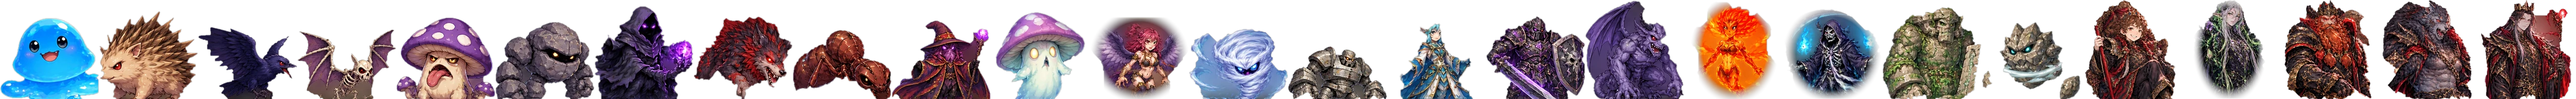
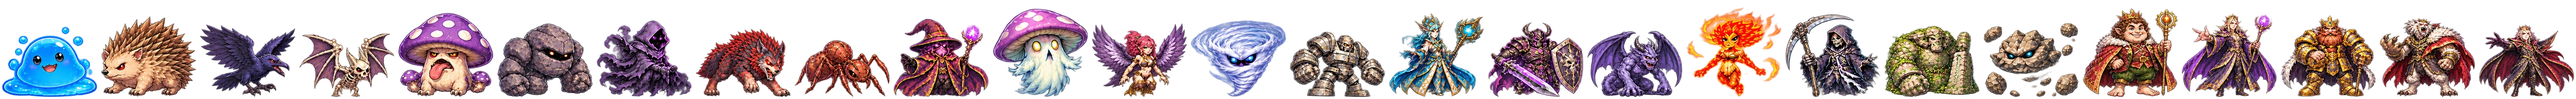
Add files via upload

diff --git a/index.html b/index.html
@@ -355,19 +355,19 @@ const RACES={
 const RACE_KEYS=['human','elf','dwarf','hobbit','beast'];
 const JOBS={
   hero:{name:'勇者',tier:1,cap:BASE_CAP,base:[20,4,6,4,6,4,4,4],g:[5,1.4,1.8,1.2,1.4,1.2,1.1,1],start:['ssword','cloth'],eq:['sword','spear','dagger','cloth','light','heavy'],adv:['hero_l'],
-    skills:{3:'heal',5:'fire',7:'ret',9:'guard',12:'thunder',15:'hiheal',19:'lightning'},desc:'女神に えらばれた 主人公。\nこうげき・かいふく・じゅもんを はばひろく おぼえる。'},
+    skills:{3:'heal',5:'fire',7:'ret',9:'guard',10:'barrier',12:'thunder',15:'hiheal',19:'lightning'},desc:'女神に えらばれた 主人公。\nこうげき・かいふく・じゅもんを はばひろく おぼえる。'},
   fighter:{name:'戦士',tier:1,cap:BASE_CAP,base:[22,0,8,0,6,2,3,1],g:[6,0,2.4,0,1.6,0.6,1,0.3],start:['axe1','leather'],eq:['sword','axe','mace','spear','dagger','cloth','light','heavy'],adv:['kensei','berserk'],
     skills:{1:'nagi',4:'kabuto',10:'majin',16:'zenryoku'},desc:'ぶつりこうげきの エキスパート。\nおのや つるぎで てきを なぎはらう。'},
   knight:{name:'騎士',tier:1,cap:BASE_CAP,base:[20,4,6,2,8,1,2,1],g:[5.5,1,1.8,0.6,2.2,0.4,0.7,0.3],start:['ssword','leather'],eq:['sword','mace','spear','cloth','light','heavy'],adv:['paladin','dragoon'],
-    skills:{1:'cover',3:'bash',6:'heal',9:'phalanx',13:'holyblade'},desc:'なかまを まもる たての やくめ。\nかばう・ファランクスが つかえる。'},
+    skills:{1:'cover',3:'bash',6:'heal',9:'phalanx',11:'barrier',13:'holyblade'},desc:'なかまを まもる たての やくめ。\nかばう・ファランクスが つかえる。'},
   monk:{name:'武闘家',tier:1,cap:BASE_CAP,base:[18,0,7,0,4,7,5,3],g:[5,0,2,0,1.1,1.6,1.3,0.6],start:[null,'cloth'],eq:['claw','cloth','light'],adv:['master','ninja'],unarmed:true,crit:0.1,
     skills:{1:'seiken',5:'kick',9:'kikou',15:'hyaku'},desc:'すでで たたかう 格闘家。\nかいしんの いちげきが でやすい。'},
   hunter:{name:'狩人',tier:1,cap:BASE_CAP,base:[16,2,5,2,4,6,7,4],g:[4.2,0.6,1.6,0.6,1,1.5,1.8,0.9],start:['sbow','cloth'],eq:['bow','dagger','cloth','light'],adv:['sniper','ranger'],
     skills:{1:'aim',4:'sleeparrow',8:'rain',13:'deadshot',18:'double'},desc:'ゆみの つかいて。 うしろの\nれつからでも いりょくが おちない。'},
   mage:{name:'魔法使い',tier:1,cap:BASE_CAP,base:[12,10,1,8,2,3,2,2],g:[2.8,3.2,0.4,2.4,0.6,0.8,0.5,0.5],start:['rod','cloth'],eq:['staff','dagger','cloth','robe'],adv:['archmage','sage'],
-    skills:{1:'fire',3:'sleep',5:'blizz',7:'blaze',10:'thunder',13:'freeze',16:'inferno',19:'meteor'},desc:'こうげきの じゅもんを あやつる。\nうたれよわいので うしろの れつへ。'},
+    skills:{1:'fire',3:'sleep',5:'blizz',7:'blaze',10:'thunder',12:'barrier',13:'freeze',16:'inferno',19:'meteor'},desc:'こうげきの じゅもんを あやつる。\nうたれよわいので うしろの れつへ。'},
   priest:{name:'僧侶',tier:1,cap:BASE_CAP,base:[15,8,3,6,4,2,2,3],g:[3.5,2.6,0.8,1.9,1.1,0.7,0.5,0.7],start:['club','cloth'],eq:['mace','staff','cloth','light','robe'],adv:['bishop','templar'],
-    skills:{1:'heal',3:'guard',7:'hiheal',11:'healall',14:'revive',17:'holy',19:'fullheal'},desc:'かいふくと まもりの じゅもん。\nパーティの いのちづな。'},
+    skills:{1:'heal',3:'guard',7:'hiheal',9:'barrier',11:'healall',14:'revive',17:'holy',19:'fullheal'},desc:'かいふくと まもりの じゅもん。\nパーティの いのちづな。'},
   // ---- advanced (上位職) : base = 転職ボーナス ----
   hero_l:{name:'光の勇者',tier:2,cap:ADV_CAP,from:'hero',base:[30,10,6,4,6,4,4,4],g:[6,1.8,2.2,1.5,1.8,1.4,1.3,1.2],eq:['sword','spear','dagger','katana','cloth','light','heavy'],
     skills:{20:'hikarinotachi',24:'fullheal',28:'saintnova'},desc:'光の 力に めざめた 勇者。\nすべての のうりょくが のびる。'},
@@ -446,7 +446,7 @@ const WORLDS=[null,
     intro:['この 世界は ドワーフの 王が おさめる くに。\n王都ドルムガルドで 王が あなたを まっています。'],
     rumors:['ドワーフの 宝剣が 風の塔で ねむっとる。\nドワーフにしか ふるえん つるぎじゃ。','獣人を なかまにするなど ありえん。\nあやつらは 魔王の けんぞくじゃ。']},
   {n:5,title:'第5の世界',short:'第5',capital:'れんごう都市エルトリア',plain:'エルトリア平原',king:'れんごう王',kingRace:'alliance',fav:null,evil:'human',treasure:null,scale:0.7,expScale:1.0,demonScale:1.0,solo:true,
-    demon:{name:'魔王ヴァルグ',art:'varg',short:'ヴァルグ',race:'human',hp:4420,atk:210,def:94,pal:{a:'#5a2a7a',b:'#3a1a52',c:'#b02a3a',e:'#ffef5a',p:'#c00',w:'#f0f0f0',r:'#c00'}},
+    demon:{name:'魔王ヴァルグ',art:'varg',short:'ヴァルグ',race:'human',hp:8000,atk:210,def:94,pal:{a:'#5a2a7a',b:'#3a1a52',c:'#b02a3a',e:'#ffef5a',p:'#c00',w:'#f0f0f0',r:'#c00'}},
     evilLine:'人間は よくぶかく あらそいを このむ たみ。\nその 人間の なかから 魔王が うまれたのじゃ。',
     kingLines:['ここは 獣人・ホビット・エルフ・ドワーフの\n4つの たみが つくる れんごう国じゃ。','東の海に 人間の 魔王ヴァルグが あらわれ\n世界を やみに しずめようと しておる。','この くにでは 人間は 魔王の 一族として いみきらわれておる。\nだが 女神の使いならば はなしは べつじゃ。'],
     intro:['ここが さいごの 世界。 獣人・ホビット・エルフ・ドワーフの\n4つの たみが つくる れんごう国です。','れんごう都市エルトリアで 王が あなたを まっています。\nどんな ときも わたしは あなたを ささえます。'],
@@ -471,7 +471,7 @@ const SK={
   // ---- 職業：物理技 ----
   nagi:{name:'なぎはらい',mp:3,target:'enemies',kind:'phys',mult:0.75,desc:'てき ぜんたいに こうげき'},
   kabuto:{name:'かぶとわり',mp:4,target:'enemy',kind:'phys',mult:1.8,desc:'つよい いちげき'},
-  majin:{name:'まじんぎり',mp:7,target:'enemy',kind:'phys',mult:3.2,acc:0.65,desc:'あたれば きょうれつ'},
+  majin:{name:'まじんぎり',mp:7,target:'enemy',kind:'phys',mult:2.4,acc:0.65,desc:'あたれば きょうれつ'},
   zenryoku:{name:'ぜんりょくなぎ',mp:10,target:'enemies',kind:'phys',mult:1.4,desc:'てき ぜんたいに つよい こうげき'},
   bash:{name:'シールドバッシュ',mp:3,target:'enemy',kind:'phys',mult:1.2,stun:0.45,desc:'てきを ひるませる'},
   cover:{name:'かばう',mp:2,target:'ally',kind:'cover',desc:'なかま ひとりの ダメージを かわりに うける'},
@@ -487,7 +487,7 @@ const SK={
   deadshot:{name:'いちげきひっさつ',mp:9,target:'enemy',kind:'phys',mult:1.2,kill:0.3,ranged:true,desc:'まれに てきを いっぱつで たおす'},
   double:{name:'れんしゃ',mp:12,target:'enemy',kind:'phys',mult:1.5,hits:[2,2],ranged:true,desc:'つよい 2れんぞく こうげき'},
   // ---- 女神の加護 ----
-  brave:{name:'ブレイブスラッシュ',mp:5,target:'enemy',kind:'phys',mult:2.5,pierce:true,desc:'女神の 力を やどす ひっさつわざ'},
+  brave:{name:'ブレイブスラッシュ',mp:5,target:'enemy',kind:'phys',mult:3.4,pierce:true,crit:0.1,desc:'女神の 力を やどす ひっさつわざ。\nまもりを つらぬき かいしんも でやすい'},
   grace:{name:'女神の息吹',mp:0,target:'allies',kind:'grace',desc:'1せんとう 1かい。 ぜんいん ぜんかい'},
   megaikazuchi:{name:'女神の雷',mp:10,target:'enemies',kind:'magic',pow:[88,106],fx:'zap',desc:'女神の いかずちが てき ぜんたいを うつ'},
   // ---- 種族 ----
@@ -518,6 +518,7 @@ const SK={
   holy:{name:'ホーリー',mp:14,target:'enemy',kind:'magic',pow:[78,92],fx:'holy',desc:'せいなる 光で こうげき'},
   sleep:{name:'スリープ',mp:3,target:'enemies',kind:'sleep',rate:0.6,desc:'てきを ねむらせる'},
   guard:{name:'ガード',mp:3,target:'allies',kind:'defup',desc:'なかまの みのまもりが あがる'},
+  barrier:{name:'マジックバリア',mp:5,target:'allies',kind:'barrier',desc:'てきの じゅもん・ブレスなどの ダメージを\nはんぶんに する（その せんとうの あいだ）'},
   heal:{name:'ヒール',mp:3,target:'ally',kind:'heal',pow:[30,40],field:true,desc:'HPを かいふく'},
   hiheal:{name:'ハイヒール',mp:6,target:'ally',kind:'heal',pow:[85,100],field:true,desc:'HPを おおきく かいふく'},
   healall:{name:'ヒールオール',mp:12,target:'allies',kind:'heal',pow:[55,70],field:true,desc:'なかま ぜんいんを かいふく'},
@@ -527,26 +528,26 @@ const SK={
   // ---- 上位職 ----
   hikarinotachi:{name:'光のたち',mp:12,target:'enemies',kind:'phys',mult:1.6,pierce:true,desc:'てき ぜんたいを 光の つるぎで'},
   saintnova:{name:'セイントノヴァ',mp:20,target:'enemies',kind:'magic',pow:[110,130],fx:'holy',desc:'せいなる ばくはつで てき ぜんたいを'},
-  iai:{name:'いあいぎり',mp:6,target:'enemy',kind:'phys',mult:2.2,crit:0.3,desc:'かいしんが でやすい するどい いちげき'},
+  iai:{name:'いあいぎり',mp:6,target:'enemy',kind:'phys',mult:1.8,crit:0.3,desc:'かいしんが でやすい するどい いちげき'},
   tsubame:{name:'つばめがえし',mp:8,target:'enemy',kind:'phys',mult:1.3,hits:[2,2],desc:'すばやい 2れんげき'},
   mugen:{name:'むげんいっとう',mp:16,target:'enemies',kind:'phys',mult:1.8,pierce:true,desc:'てき ぜんたいを きりさく おうぎ'},
   chinoikari:{name:'ちのいかり',mp:4,target:'self',kind:'selfatk',desc:'じぶんの こうげき力が おおきく あがる'},
-  daisetsudan:{name:'だいせつだん',mp:10,target:'enemy',kind:'phys',mult:3.5,acc:0.8,desc:'あたれば すさまじい いちげき'},
+  daisetsudan:{name:'だいせつだん',mp:10,target:'enemy',kind:'phys',mult:2.6,acc:0.8,desc:'あたれば すさまじい いちげき'},
   bunmawashi:{name:'ぶんまわし',mp:12,target:'enemies',kind:'phys',mult:1.6,desc:'てき ぜんたいを なぎたおす'},
   chikai:{name:'まもりのちかい',mp:6,target:'none',kind:'coverall',desc:'このターン なかまへの ぶつりこうげきを すべて うける'},
   grandcross:{name:'グランドクロス',mp:18,target:'enemies',kind:'magic',pow:[90,110],fx:'holy',desc:'せいなる じゅうじで てき ぜんたいを'},
-  jump:{name:'ジャンプ',mp:6,target:'enemy',kind:'phys',mult:2.6,pierce:true,desc:'たかく とび やりで つらぬく'},
+  jump:{name:'ジャンプ',mp:6,target:'enemy',kind:'phys',mult:2.0,pierce:true,desc:'たかく とび やりで つらぬく'},
   ryunoibuki:{name:'りゅうのいぶき',mp:12,target:'enemies',kind:'magic',pow:[60,75],fx:'fire',desc:'りゅうの ほのおで てき ぜんたいを'},
-  highjump:{name:'ハイジャンプ',mp:14,target:'enemy',kind:'phys',mult:4.0,pierce:true,desc:'さらに たかく とび きょうれつな いちげき'},
+  highjump:{name:'ハイジャンプ',mp:14,target:'enemy',kind:'phys',mult:2.8,pierce:true,desc:'さらに たかく とび きょうれつな いちげき'},
   shinkuuha:{name:'しんくうは',mp:10,target:'enemies',kind:'phys',mult:1.3,desc:'しんくうの は で てき ぜんたいを'},
   meisou:{name:'めいそう',mp:6,target:'self',kind:'selfheal',ratio:0.7,desc:'じぶんの HPを 70% かいふく'},
-  ougi:{name:'ひでんおうぎ',mp:14,target:'enemy',kind:'phys',mult:3.0,crit:0.5,desc:'かいしんが でやすい おうぎ'},
+  ougi:{name:'ひでんおうぎ',mp:14,target:'enemy',kind:'phys',mult:2.2,crit:0.5,desc:'かいしんが でやすい おうぎ'},
   kagenui:{name:'かげぬい',mp:5,target:'enemy',kind:'phys',mult:1.2,stun:0.7,desc:'かげを ぬいとめ てきを うごけなくする'},
   shuriken:{name:'しゅりけん',mp:8,target:'random',kind:'phys',mult:0.9,hits:[3,3],ranged:true,desc:'ランダムに 3かい しゅりけんを なげる'},
   kubihane:{name:'くびはね',mp:12,target:'enemy',kind:'phys',mult:1.5,kill:0.4,desc:'まれに てきを いっぱつで しとめる'},
   tsuranuki:{name:'つらぬきのや',mp:6,target:'enemy',kind:'phys',mult:2.2,pierce:true,ranged:true,desc:'まもりを つらぬく や'},
   hoshifuri:{name:'ほしふりのや',mp:12,target:'enemies',kind:'phys',mult:1.1,ranged:true,desc:'てき ぜんたいに やを ふらせる'},
-  isshi:{name:'いっしひっちゅう',mp:15,target:'enemy',kind:'phys',mult:4.0,ranged:true,sure:true,desc:'かならず あたる いっぱつ'},
+  isshi:{name:'いっしひっちゅう',mp:15,target:'enemy',kind:'phys',mult:3.0,ranged:true,sure:true,desc:'かならず あたる いっぱつ'},
   yakusou:{name:'薬草のちしき',mp:6,target:'allies',kind:'heal',pow:[40,55],field:true,desc:'なかま ぜんいんを かいふく'},
   wana:{name:'しかけわな',mp:6,target:'enemies',kind:'stunall',rate:0.6,desc:'てきを ひるませやすい'},
   monogari:{name:'まものがり',mp:12,target:'enemies',kind:'phys',mult:1.4,ranged:true,desc:'てき ぜんたいを いぬく'},
@@ -556,7 +557,7 @@ const SK={
   inori:{name:'せいなるいのり',mp:8,target:'allies',kind:'rally',desc:'なかまの こうげき力と みのまもりが あがる'},
   resurrection:{name:'リザレクション',mp:30,target:'deadall',kind:'revive',full:true,field:true,desc:'しんだ なかま ぜんいんを ぜんかいで いきかえらせる'},
   grandheal:{name:'グランドヒール',mp:28,target:'allies',kind:'fullheal',field:true,desc:'なかま ぜんいんの HPを ぜんかい'},
-  shinpan:{name:'しんぱんのつち',mp:12,target:'enemy',kind:'phys',mult:3.0,pierce:true,desc:'かみの さばきを くだす いちげき'},
+  shinpan:{name:'しんぱんのつち',mp:12,target:'enemy',kind:'phys',mult:2.2,pierce:true,desc:'かみの さばきを くだす いちげき'},
 };
 const TYPE_NAME={sword:'剣',axe:'斧',mace:'メイス',spear:'槍',katana:'刀',claw:'ツメ',bow:'弓',staff:'杖',dagger:'短剣',cloth:'服',light:'軽鎧',heavy:'重鎧',robe:'ローブ'};
 const WEAPON_TYPES=['sword','axe','mace','spear','katana','claw','bow','staff','dagger'],ARMOR_TYPES=['cloth','light','heavy','robe'];
@@ -714,7 +715,7 @@ Object.entries(DROPS).forEach(([k,d])=>MON[k].drop=d);
 const BAL={mid:{ids:['wolf','ant','wizard','bigshroom','harpy','whirl','golem','sorcerer'],hp:1.6,atk:1.45,def:1.2,exp:1.25},
   late:{ids:['dknight','gargoyle','flame','reaper'],hp:2.0,atk:1.85,def:1.25,exp:1.25},
   stormlord:{ids:['stormlord'],hp:1.9,atk:1.5,def:1,exp:1}};
-Object.values(BAL).forEach(b=>b.ids.forEach(k=>{const m=MON[k];m.hp=Math.round(m.hp*b.hp);m.atk=Math.round(m.atk*b.atk);m.def=Math.round(m.def*b.def);m.exp=Math.round(m.exp*b.exp);m.gold=Math.round(m.gold*b.exp);}));
+Object.values(BAL).forEach(b=>b.ids.forEach(k=>{const m=MON[k];m.spow=1+(b.atk-1)*0.6;m.hp=Math.round(m.hp*b.hp);m.atk=Math.round(m.atk*b.atk);m.def=Math.round(m.def*b.def);m.exp=Math.round(m.exp*b.exp);m.gold=Math.round(m.gold*b.exp);}));
 const ESKILL={
   spore:{msg:'どくのこなを まきちらした！',target:'all',pow:[5,8]},
   spore2:{msg:'もうどくの こなを まきちらした！',target:'all',pow:[11,16]},
@@ -746,8 +747,17 @@ const WR=["##############","#::::###::::^#","#:W::#:::#::^#","#:,:::::#:::^#","#
 const SEA='~'.repeat(30);
 const WORLD_BASE=WL.map((l,i)=>l+(i===12?'==':'~~')+WR[i]).concat([SEA,SEA,
   '~'.repeat(18)+'##pp#pp,p#~~','~'.repeat(18)+'#p#ppp#pp#~~','~'.repeat(18)+'#ppp#pppp#~~','~'.repeat(18)+'##pX####p#~~','~'.repeat(18)+'##########~~',SEA]);
+const WORLD_FLOOR_CH={'.':1,',':1,':':1,'p':1,'=':1};
 // ワールドは 1マスを 2×2に ひろげて 2ばいの 広さにする
-const WORLD_ROWS=WORLD_BASE.flatMap(r=>{const d=r.split('').map(c=>c+c).join('');return [d,d];});
+const WORLD_ROWS0=WORLD_BASE.flatMap(r=>{const d=r.split('').map(c=>c+c).join('');return [d,d];});
+// 町・洞窟・塔・ほこら・魔王城は 2×2の うち 1マスだけを 入口に し、のこりは まわりの 地形で うめる
+const GATE_KEEP={T:[1,0],S:[0,0],C:[0,1],W:[0,1],R:[0,0],X:[0,0]};
+const WORLD_ROWS=(()=>{const g=WORLD_ROWS0.map(r=>r.split(''));const walk=c=>!!WORLD_FLOOR_CH[c];
+  WORLD_BASE.forEach((row,by)=>[...row].forEach((c,bx)=>{const k=GATE_KEEP[c];if(!k)return;
+    const cnt={};[[1,0],[-1,0],[0,1],[0,-1]].forEach(([dx,dy])=>{const n=(WORLD_BASE[by+dy]||'')[bx+dx];if(n&&n!=='~'&&!GATE_KEEP[n])cnt[n]=(cnt[n]||0)+1;});
+    const fill=Object.keys(cnt).sort((a,b)=>cnt[b]-cnt[a]||walk(b)-walk(a))[0]||'.';
+    for(let oy=0;oy<2;oy++)for(let ox=0;ox<2;ox++)if(ox!==k[0]||oy!==k[1])g[by*2+oy][bx*2+ox]=fill;}));
+  return g.map(r=>r.join(''));})();
 const CAVE1=["####################","#<....#.......#....#","#.##..#.####..#.##.#","#.#...#....#..#..#.#","#.#.###.##.#.###.#.#","#...#...#..#.....#.#","###.#.###.####.###.#","#...#...#....#.....#","#.#####.####.#.###.#","#.....#....#.#...#.#","#.###.####.#.###.#.#","#.#X#......#...#.#.#","#.#.########.#.#...#","#.#..........#.###.#","#...########...#..>#","####################"];
 const CAVE2=["####################","#<.......#.........#","#.######.#.#######.#","#.#....#.#.#.....#.#","#.#.##.#...#.###.#.#","#...#..#####.#.#...#","#####.##.....#.###.#","#.....#..###.#...#.#","#.#####.##.#.###.#.#","#.......#..#...#...#","########.#####.#####","#..................#","#.#######E########.#","#.#X....#Y#.....X#.#","#.......####.......#","####################"];
 const TOWER1=["##############","#......#.....#","#.####.#.###.#","#.#X.#...#>..#","#.#..#####.#.#","#.#........#.#","#.######.###.#","#......#.....#","######.#####.#","#X.....#.....#","#.####.#.###.#","#....#...#...#","#.##.##<##.#.#","##############"];
@@ -827,7 +837,7 @@ const TILE_KEYS=['forest','mount','townR','townS','caveEnt','towerEnt','castleGa
 const tileArt=new Image();tileArt.onload=()=>{const c=document.createElement('canvas');c.width=TS;c.height=TS;const x=c.getContext('2d');
   TILE_KEYS.forEach((k,i)=>{x.clearRect(0,0,TS,TS);x.drawImage(tileArt,i*TS,0,TS,TS,0,0,TS,TS);T[k]=new Uint32Array(x.getImageData(0,0,TS,TS).data.buffer.slice(0));});};
 function loadTileArt(){tileArt.src='assets/tiles.png';gateArt.src='assets/gates.png';}
-// 2マスで 1つの 入口に なる たてもの（町・洞窟・塔・ほこら・魔王城）
+// 1マスの 入口に なる たてもの（町・洞窟・塔・ほこら・魔王城）。絵は 128x64 を 1マスに おさめて えがく
 const GATE_KEYS=['T','S','C','W','R','X'],GT={};const gateArt=new Image();
 gateArt.onload=()=>{const c=document.createElement('canvas');c.width=128;c.height=64;const x=c.getContext('2d');
   GATE_KEYS.forEach((k,i)=>{x.clearRect(0,0,128,64);x.drawImage(gateArt,i*128,0,128,64,0,0,128,64);GT[k]=new Uint32Array(x.getImageData(0,0,128,64).data.buffer.slice(0));});};
@@ -903,6 +913,7 @@ function growth(m){const Rc=RACES[m.race],J=JOBS[m.job],Sx=GENDERS[m.sex||'male'
 function learn(m){
   const got=[];const add=(lv,s)=>{if(m.lv>=+lv&&!m.skills.includes(s)){m.skills.push(s);got.push(s);}};
   Object.entries(RACES[m.race].skills).forEach(([l,s])=>add(l,s));Object.entries(JOBS[m.job].skills).forEach(([l,s])=>add(l,s));
+  if(m.baseJob&&JOBS[m.baseJob])Object.entries(JOBS[m.baseJob].skills).forEach(([l,s])=>add(l,s));
   if(isHero(m)&&G)(G.blessings||[]).forEach(b=>{if(BLESSINGS[b].skill)add(1,BLESSINGS[b].skill);});
   return got;
 }
@@ -1102,7 +1113,9 @@ async function goMap(id,x,y,d){sfx('stairs');await fade(1);loadMap(id,x,y,d);awa
 function onArrive(){
   markSeen();updHud();
   const k=G.x+','+G.y;
-  if(map.stairs&&map.stairs[k]){const [m,x,y,d]=map.stairs[k];run(()=>goMap(m,x,y,d));return;}
+  // 階段は ふむと きいてくる（「いいえ」なら その まま とおりぬけられる）
+  if(map.stairs&&map.stairs[k]){const [m,x,y,d]=map.stairs[k];const sp=sprites.find(s=>s.type==='stairs'&&s.x===G.x&&s.y===G.y);const up=sp?sp.up:true;
+    run(async()=>{const c=await ask(`${DUNGEONS[m].name}へ\nかいだんを ${up?'のぼり':'おり'}ますか？`);closeMsg();if(c===0)await goMap(m,x,y,d);});return;}
   const c=cellAt(G.x,G.y);
   if(map.theme==='world'&&c==='p'){sfx('poison');flash('#8a3ab0',1,50);G.party.forEach(m=>{if(m.hp>0)m.hp=Math.max(0,m.hp-R(1,3));});updBar();if(!alive().length){run(wipeOut);return;}}
   // encounter gauge
@@ -1173,7 +1186,7 @@ function render3D(cx,cy,ang){
     let tx=Math.floor(wx*TS);if(side===0&&rdx>0)tx=TS-1-tx;if(side===1&&rdy<0)tx=TS-1-tx;
     let tex=wallTex(c,mx,my),tw=TS;
     const big=outdoor&&GT[c];
-    if(big){let u=((side===0?(my&1):(mx&1))+wx)/2;if(side===0&&rdx>0)u=1-u;if(side===1&&rdy<0)u=1-u;tx=Math.min(127,Math.floor(u*128));tex=big;tw=128;}
+    if(big){let u=wx;if(side===0&&rdx>0)u=1-u;if(side===1&&rdy<0)u=1-u;tx=Math.min(127,Math.floor(u*128));tex=big;tw=128;}
     const br=(outdoor?1:clamp(1.15-pd/LR,0,1))*(side?0.78:1),fm=outdoor?clamp((pd-3)/16,0,0.92):0;
     const step=TS/lh;let tp=(Math.max(0,ds)-HALF+lh/2)*step;
     for(let y=Math.max(0,ds);y<=Math.min(H-1,de);y++){const ty=Math.min(TS-1,tp|0);tp+=step;const px=tex[ty*tw+tx];if(big&&(px>>>24)<128)continue;buf[y*W+x]=shade(px,br,fm,fr,fg,fb);}
@@ -1775,8 +1788,9 @@ async function foeEvent(f){
   else await worldClear();
 }
 function applyWorld(){
-  const D0=curW().demon,base={hp:2380,atk:175,def:81};
+  const D0=curW().demon,base={hp:4800,atk:175,def:81};
   Object.assign(MON.demon,{name:D0.name,pal:D0.pal,hp:D0.hp||base.hp,atk:D0.atk||base.atk,def:D0.def||base.def});
+  MON.demon.spow=MON.demon.atk/125;
   SPRC.delete('m:demon');SPRT.delete('m:demon');
 }
 async function goddessScene(){await fade(1);scene='goddess';clearUI();updBar();updHud();playBgm('goddess');await fade(0);}
@@ -1873,9 +1887,9 @@ async function battleStart(ids,opt){
   if(map&&G&&scene==='explore'){const [cx,cy,a]=camera();render3D(cx,cy,a);}
   bgSnap.getContext('2d').drawImage(cv,0,0);
   const counts={},seen={};ids.forEach(id=>counts[id]=(counts[id]||0)+1);
-  B={opt,fx:null,atkUp:false,guard:false,selfDef:new Set(),selfAtk:new Set(),selfEva:new Set(),defend:new Set(),downed:new Set(),cover:{},coverAll:undefined,phalanx:false,graceUsed:false,phoenixUsed:false,enemies:ids.map(id=>{
+  B={opt,fx:null,atkUp:false,guard:false,barrier:false,selfDef:new Set(),selfAtk:new Set(),selfEva:new Set(),defend:new Set(),downed:new Set(),cover:{},coverAll:undefined,phalanx:false,graceUsed:false,phoenixUsed:false,enemies:ids.map(id=>{
     const m=MON[id];let label=m.name;if(counts[id]>1){seen[id]=seen[id]||0;label+='ABCD'[seen[id]++];}
-    const W0=curW(),sc=(id==='demon'&&W0.demonScale!=null)?W0.demonScale:W0.scale,xs=W0.expScale!=null?W0.expScale:sc,hp=Math.round(m.hp*sc);return Object.assign({},m,{id,label,hp,mhp:hp,atk:Math.round(m.atk*sc),def:Math.round(m.def*sc),exp:Math.round(m.exp*xs),gold:Math.round(m.gold*xs),sleep:0,stun:false,flash:0,alpha:1,dead:false,healed:false,half:false});
+    const W0=curW(),sc=(id==='demon'&&W0.demonScale!=null)?W0.demonScale:W0.scale,xs=W0.expScale!=null?W0.expScale:sc,hp=Math.round(m.hp*sc);return Object.assign({},m,{id,label,hp,mhp:hp,atk:Math.round(m.atk*sc),def:Math.round(m.def*sc),exp:Math.round(m.exp*xs),gold:Math.round(m.gold*xs),spow:(m.spow||1)*sc,sleep:0,stun:false,flash:0,alpha:1,dead:false,healed:false,half:false});
   })};
   scene='battle';clearUI();updHud();updBar(-1);playBgm(opt.boss?'boss':'battle');
   const e0=B.enemies[0];
@@ -1989,10 +2003,12 @@ const liveEnemies=()=>B.enemies.filter(e=>!e.dead);
 function retarget(t){if(B.enemies[t]&&!B.enemies[t].dead)return B.enemies[t];const l=liveEnemies();return l.length?pick(l):null;}
 function critRate(m,bonus){let c=1/32+lukOf(m)/500+(bonus||0);if(m.race==='beast')c+=0.06;c+=JOBS[m.job].crit||0;if(isHero(m)&&hasBless('fortune'))c+=0.2;return c;}
 const pinch=m=>m.race==='human'&&m.hp>0&&m.hp<=m.mhp/4;
-function phys(atk,def,crit){
-  if(Math.random()<crit)return {d:Math.floor(atk*(0.95+Math.random()*0.1)),crit:true};
-  const base=(atk-def/2)/2;if(base<1)return {d:Math.random()<0.5?1:0};
-  return {d:Math.max(1,Math.floor(base*(0.85+Math.random()*0.3)))};
+function phys(atk,def,crit,mult){
+  mult=mult||1;
+  if(Math.random()<crit)return {d:Math.floor(atk*mult*(0.95+Math.random()*0.1)),crit:true};
+  // ダメージ = こうげき÷2 × こうげき÷(こうげき＋しゅび)。しゅびが たかいほど わりあいで へる
+  const base=atk>0?atk/2*atk/(atk+Math.max(0,def)):0;if(base<1)return {d:Math.random()<0.5?1:0};
+  return {d:Math.max(1,Math.floor(base*mult*(0.85+Math.random()*0.3)))};
 }
 async function hitEnemy(e,d){
   e.hp-=d;e.flash=14;if(e.sleep&&d>0&&Math.random()<0.5)e.sleep=0;
@@ -2005,9 +2021,9 @@ async function physHit(m,i,e,s){
   if(!s.sure&&Math.random()<evadeRate(e.agi,dexOf(m))){sfx('miss');await BS(`${e.label}は ひらりと みをかわした！`);return;}
   if(s.acc&&Math.random()>s.acc){sfx('miss');await BS('しかし はずれてしまった！');return;}
   const ranged=s.ranged||(wpn(m)&&wpn(m).type==='bow');
-  let atk=atkOf(m)*(s.mult||1)*(B.atkUp?1.25:1)*(B.selfAtk.has(i)?1.5:1)*(pinch(m)?1.25:1);if(isBack(i)&&!ranged)atk*=0.6;
+  let atk=atkOf(m)*(B.atkUp?1.25:1)*(B.selfAtk.has(i)?1.5:1)*(pinch(m)?1.25:1);if(isBack(i)&&!ranged)atk*=0.6;
   if(s.kill&&!e.boss&&Math.random()<s.kill){sfx('crit');await flash('#fff',1,50);e.hp=0;e.flash=14;e.dead=true;e.dying=true;await BS(`いっぱつで ${e.label}を しとめた！`);return;}
-  const r=phys(Math.round(atk),s.pierce?e.def/2:e.def,critRate(m,s.crit));
+  const r=phys(Math.round(atk),s.pierce?e.def/2:e.def,critRate(m,s.crit),s.mult||1);
   if(r.crit){sfx('crit');await flash('#fff',1,50);await BS('かいしんの いちげき！');}else sfx('hit');
   if(r.d<=0){await BS(`ミス！ ${e.label}に ダメージを あたえられない！`);return;}
   await hitEnemy(e,r.d);
@@ -2030,7 +2046,7 @@ async function doAct(a){
   if(s.kind==='cover'||s.kind==='phalanx'||s.kind==='coverall'||m.mp<s.mp){await BSC(`${m.name}は ${s.name}を つかおうとした！\nしかし MPが たりない！`);return;}
   if(s.kind==='grace'&&B.graceUsed){await BSC(`${m.name}は いのった… しかし\nきょうは もう 力が たりない。`);return;}
   m.mp-=s.mp;updBar();
-  const isMagic=['magic','heal','fullheal','revive','sleep','defup'].includes(s.kind);
+  const isMagic=['magic','heal','fullheal','revive','sleep','defup','barrier'].includes(s.kind);
   await BSC(isMagic?`${m.name}は ${s.name}を となえた！`:`${m.name}の ${s.name}！`);
   switch(s.kind){
     case 'phys':{
@@ -2041,7 +2057,7 @@ async function doAct(a){
     case 'magic':{
       sfx({fire:'fire',ice:'ice',zap:'zap',holy:'holy',wind:'ice'}[s.fx]||'magic');B.fx={c:{fire:'#ff7a1a',ice:'#9fe8ff',zap:'#ffffff',holy:'#fff3b0',wind:'#c8ffd8'}[s.fx]||'#fff',t:18};
       const tg=s.target==='enemies'?liveEnemies():[retarget(a.target)].filter(Boolean);
-      for(const e of tg){if(!e.dead)await hitEnemy(e,magicDmg(m,s.pow));}
+      for(const e of tg){if(!e.dead)await hitEnemy(e,Math.round(magicDmg(m,s.pow)*(e.id==='demon'?0.7:1)));}
       break;}
     case 'heal':case 'fullheal':case 'revive':{
       const tg=s.target==='allies'?alive():s.target==='deadall'?G.party.filter(x=>x.hp<=0):[G.party[a.target]];
@@ -2051,6 +2067,7 @@ async function doAct(a){
     case 'selfatk':sfx('magic');B.selfAtk.add(a.who);await BS(`${m.name}の こうげき力が ぐーんと あがった！`);break;
     case 'selfevade':sfx('magic');B.selfEva.add(a.who);await BS(`${m.name}は みのこなしが かるくなった！`);break;
     case 'sleep':sfx('magic');for(const e of liveEnemies()){if(!e.boss&&Math.random()<(s.rate||0.6)){e.sleep=R(2,3);await BS(`${e.label}を ねむらせた！`);}else await BS(`${e.label}には きかなかった！`);}break;
+    case 'barrier':sfx('magic');B.barrier=true;B.fx={c:'#c8a0ff',t:14};await BS('ふしぎな まくが なかまを つつんだ！\nじゅもんや ブレスに つよくなった！');break;
     case 'defup':sfx('magic');B.guard=true;B.fx={c:'#7ab0ff',t:14};await BS('みんなの みのまもりが あがった！');break;
     case 'atkup':sfx('magic');B.atkUp=true;B.fx={c:'#ff9a5a',t:14};await BS('みんなの こうげき力が あがった！');break;
     case 'selfdef':sfx('magic');B.selfDef.add(a.who);await BS(`${m.name}の みのまもりが ぐーんと あがった！`);break;
@@ -2072,6 +2089,7 @@ async function hurtMember(i,d,physical){
   else if(physical&&B.cover[i]!==undefined&&B.cover[i]!==i&&G.party[B.cover[i]].hp>0&&!B.downed.has(B.cover[i])){const p=B.cover[i];await BS(`${G.party[p].name}が ${G.party[i].name}を かばった！`);i=p;}
   const m=G.party[i];
   if(physical){if(isBack(i))d*=0.7;if(B.phalanx)d*=0.5;if(m.race==='dwarf')d*=0.85;}
+  else if(B.barrier)d*=0.5;
   if(B.defend.has(i))d*=0.5;d=Math.max(physical?0:1,Math.floor(d));
   m.hp=Math.max(0,m.hp-d);sfx('hurt');shake();updBar();
   await BS(`${m.name}は ${d}の ダメージを うけた！`);
@@ -2082,10 +2100,10 @@ async function enemyAct(e){
   if(e.dead||!alive().length)return;
   if(e.sleep>0){e.sleep--;await BSC(e.sleep>0?`${e.label}は ねむっている。`:`${e.label}は めをさました！`);return;}
   if(e.stun){e.stun=false;await BSC(`${e.label}は ひるんで うごけない！`);return;}
-  if(e.id==='demon'&&!e.healed&&e.hp<e.mhp*0.25){e.healed=true;e.hp=Math.min(e.mhp,e.hp+480);sfx('heal');await BSC(`${demonShort()}は やみの 力を すいこんだ！`);await BS(`${demonShort()}の きずが ふさがっていく！`);return;}
+  if(e.id==='demon'&&!e.healed&&e.hp<e.mhp*0.25){e.healed=true;e.hp=Math.min(e.mhp,e.hp+Math.round(e.mhp*0.2));sfx('heal');await BSC(`${demonShort()}は やみの 力を すいこんだ！`);await BS(`${demonShort()}の きずが ふさがっていく！`);return;}
   let skill=null;const roll=Math.random()*100;let acc=0;
   for(const [s,p] of (e.skills||[])){acc+=p;if(roll<acc){skill=s;break;}}
-  if(skill==='wave'&&!B.guard&&!B.atkUp)skill=null;
+  if(skill==='wave'&&!B.guard&&!B.atkUp&&!B.barrier)skill=null;
   if(!skill){
     const t=pickTarget(),tm=G.party[t];await BSC(`${e.label}の こうげき！`);
     if(Math.random()<playerEva(t,e)){sfx('miss');await BS(`${tm.name}は ひらりと みをかわした！`);return;}
@@ -2095,11 +2113,11 @@ async function enemyAct(e){
   }
   const S=ESKILL[skill];await BSC(`${e.label}は ${S.msg}`);
   if(S.fx)B.fx={c:S.fx==='dark'?'#6a1a9a':'#ff7a1a',t:20};
-  if(S.target==='dispel'){B.guard=false;B.atkUp=false;sfx('magic');await BS('なかまに かかっていた 力が きえた！');return;}
-  if(S.target==='all'){if(S.fx)sfx('fire');for(const i of G.party.map((m,i)=>i).filter(i=>G.party[i].hp>0))await hurtMember(i,R(S.pow[0],S.pow[1]),false);return;}
+  if(S.target==='dispel'){B.guard=false;B.atkUp=false;B.barrier=false;sfx('magic');await BS('なかまに かかっていた 力が きえた！');return;}
+  if(S.target==='all'){if(S.fx)sfx('fire');for(const i of G.party.map((m,i)=>i).filter(i=>G.party[i].hp>0))await hurtMember(i,Math.round(R(S.pow[0],S.pow[1])*(e.spow||1)),false);return;}
   const t=pickTarget();
-  if(S.mult){if(Math.random()<playerEva(t,e)){sfx('miss');await BS(`${G.party[t].name}は ひらりと みをかわした！`);return;}const r=phys(Math.floor(e.atk*S.mult),pdef(t),0);await hurtMember(t,Math.max(1,r.d),true);}
-  else{if(S.fx)sfx('fire');await hurtMember(t,R(S.pow[0],S.pow[1]),false);}
+  if(S.mult){if(Math.random()<playerEva(t,e)){sfx('miss');await BS(`${G.party[t].name}は ひらりと みをかわした！`);return;}const r=phys(e.atk,pdef(t),0,S.mult);await hurtMember(t,Math.max(1,r.d),true);}
+  else{if(S.fx)sfx('fire');await hurtMember(t,Math.round(R(S.pow[0],S.pow[1])*(e.spow||1)),false);}
 }
 function drawBattle(){
   ctx.drawImage(bgSnap,0,0);ctx.fillStyle='rgba(0,0,10,.5)';ctx.fillRect(0,0,W,H);
@@ -2134,6 +2152,7 @@ function migrateSave(g){
     if(m.dex==null){const i=STATS.indexOf('dex'),R0=RACES[m.race],J0=JOBS[m.baseJob||m.job]||JOBS.hero;m.dex=Math.round(R0.base[i]+J0.base[i]+(R0.g[i]+J0.g[i])*(m.lv-1));}
     (m.skills||[]).splice(0,m.skills.length,...m.skills.filter(s=>SK[s]));
   });
+  const G0=G;G=g;(g.party||[]).concat(g.reserve||[]).forEach(m=>{if(m.skills)learn(m);});(g.worlds||[]).forEach(w=>(w.members||[]).forEach(m=>{if(m.skills)learn(m);}));G=G0;
 }
 async function titleScreen(){
   scene='title';G=null;clearUI();updBar();updHud();playBgm('title');

diff --git a/sw.js b/sw.js
@@ -1,6 +1,6 @@
 // ルミナ伝承 サービスワーカー
 // ゲームを 更新したら CACHE の 名前（v1 → v2 …）を かえてください。
-const CACHE = 'lumina-densho-v1';
+const CACHE = 'lumina-densho-v3';
 const FILES = [
   './', 'index.html', 'manifest.webmanifest',
   'assets/alliance.jpg', 'assets/gates.png', 'assets/goddess.webp', 'assets/monsters.webp',

diff --git a/README.md b/README.md
@@ -33,7 +33,7 @@ manifest.webmanifest    ホーム画面に 追加するときの 名前・アイ
 sw.js                   オフラインで あそぶための サービスワーカー
 assets/                 画像
   portraits.jpg           仲間の 顔（20職業 × 5種族 × 2性別）
-  monsters.webp           モンスター
+  monsters.webp           モンスター（200×200 × 26体を 横一列）
   rulers.jpg              王さまと 魔王
   alliance.jpg            第5の世界の れんごう王
   goddess.webp            女神ルミナ
@@ -52,8 +52,19 @@ GitHub Pages で 公開します。くわしい 手順は [docs/公開手順.md]
 
 ## ゲームを 更新したとき
 
-`sw.js` の 1行目近くに ある `CACHE` の 名前を `lumina-densho-v1` → `lumina-densho-v2` の ように 1つ ふやしてから 公開してください。
+`sw.js` の 1行目近くに ある `CACHE` の 名前の 数字を 1つ ふやしてから 公開してください（いまは `lumina-densho-v3` なので、次は `v4`）。
 そうしないと、すでに あそんでいる 人の スマホに 古い 画像が のこることが あります。
+
+## 更新の きろく
+
+- **v3**
+  - ダメージの 計算を わりあいの しきに かえ、倍率の たかい わざを 下げた。ブレイブスラッシュを 強化（倍率 3.4・かいしん +10%）。
+  - 魔王の HPを 上げ（4800、第5の世界は 8000）、回復を 最大HPの 20%に。魔王への じゅもんは 70%。
+  - 敵の じゅもん・ブレスが 世界と 敵の つよさに あわせて 強くなるように した。
+  - あたらしい じゅもん「マジックバリア」（僧侶 Lv9・勇者 Lv10・騎士 Lv11・魔法使い Lv12）。
+  - 階段を ふむと「のぼりますか？」と きくように した（「いいえ」で とおりぬけられる）。
+  - 町・洞窟・塔・ほこら・魔王城の 入口を 1マスに した。
+  - モンスターの 絵を あたらしく した。
 
 ## 使用している もの
 
